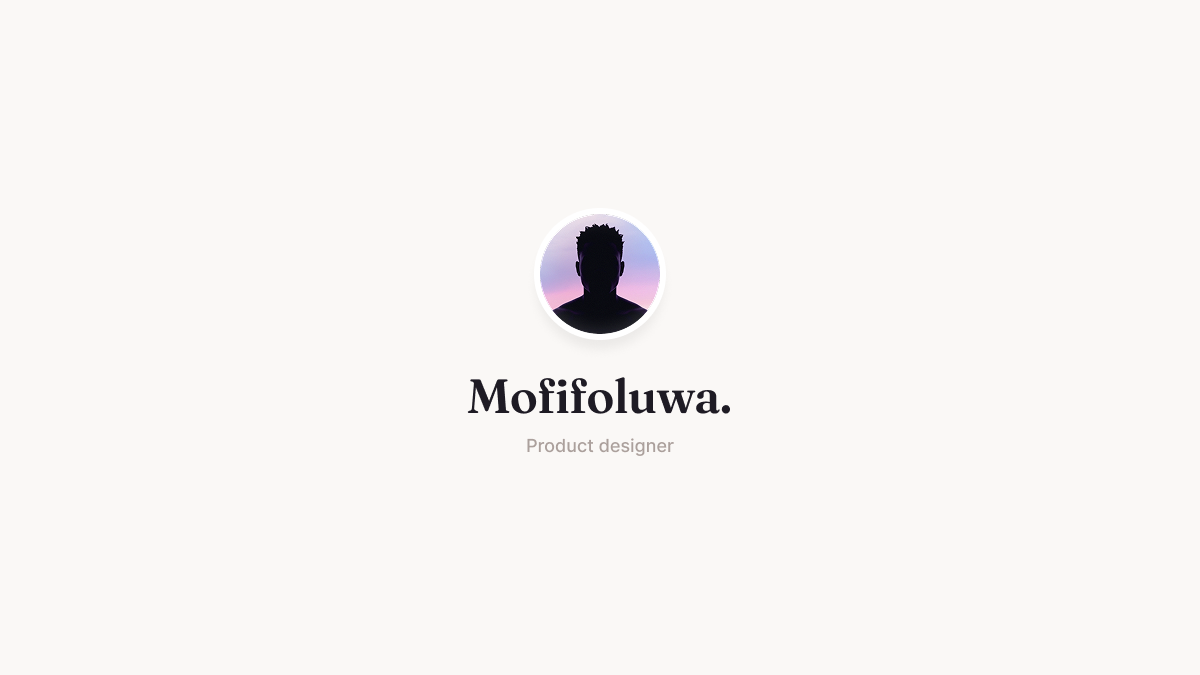
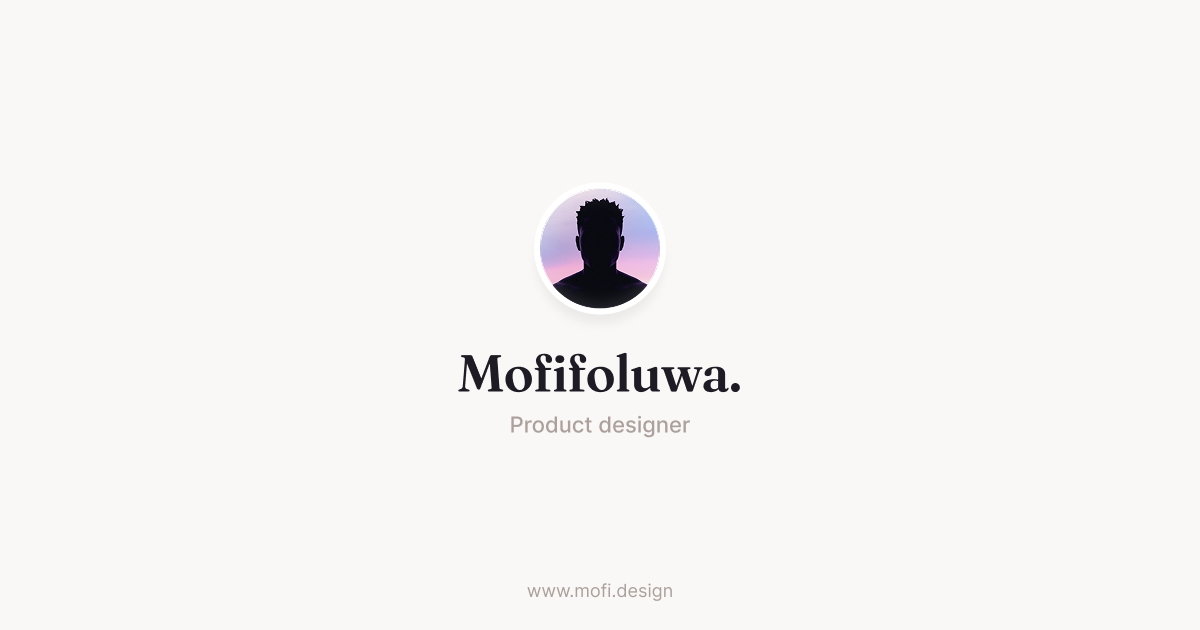
Update link preview dimensions

Changed region(s): [[0.37, 0.5429, 0.6167, 0.6937], [0.4317, 0.3016, 0.555, 0.5127], [0.4317, 0.9349, 0.555, 0.9651]]

diff --git a/index.html b/index.html
@@ -14,7 +14,7 @@
     <meta property="og:url" content="https://mofi.design/" />
     <meta property="og:image" content="https://mofi.design/assets/link-preview.png" />
     <meta property="og:image:width" content="1200" />
-    <meta property="og:image:height" content="675" />
+    <meta property="og:image:height" content="630" />
     <meta name="twitter:card" content="summary_large_image" />
     <meta name="twitter:title" content="Mofifoluwa — Product designer" />
     <meta name="twitter:description" content="Mofifoluwa's product design portfolio." />
